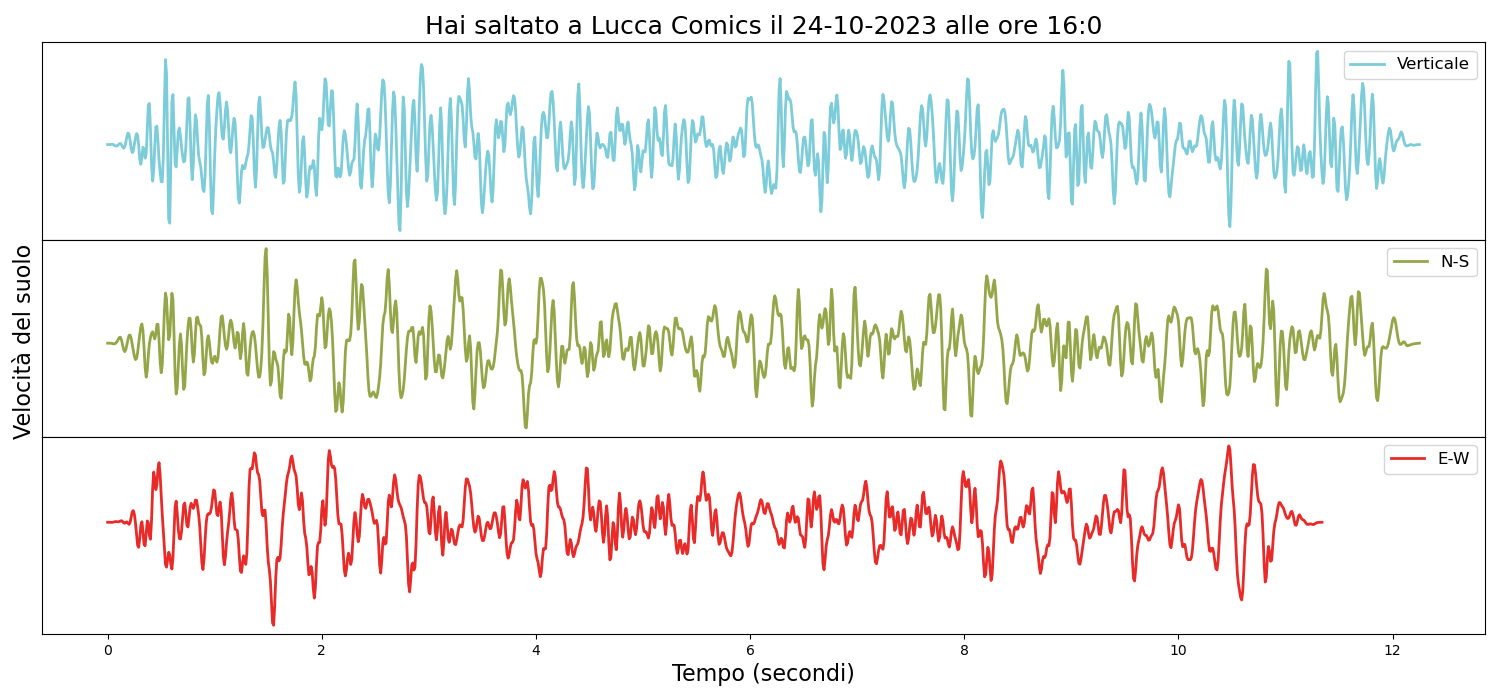
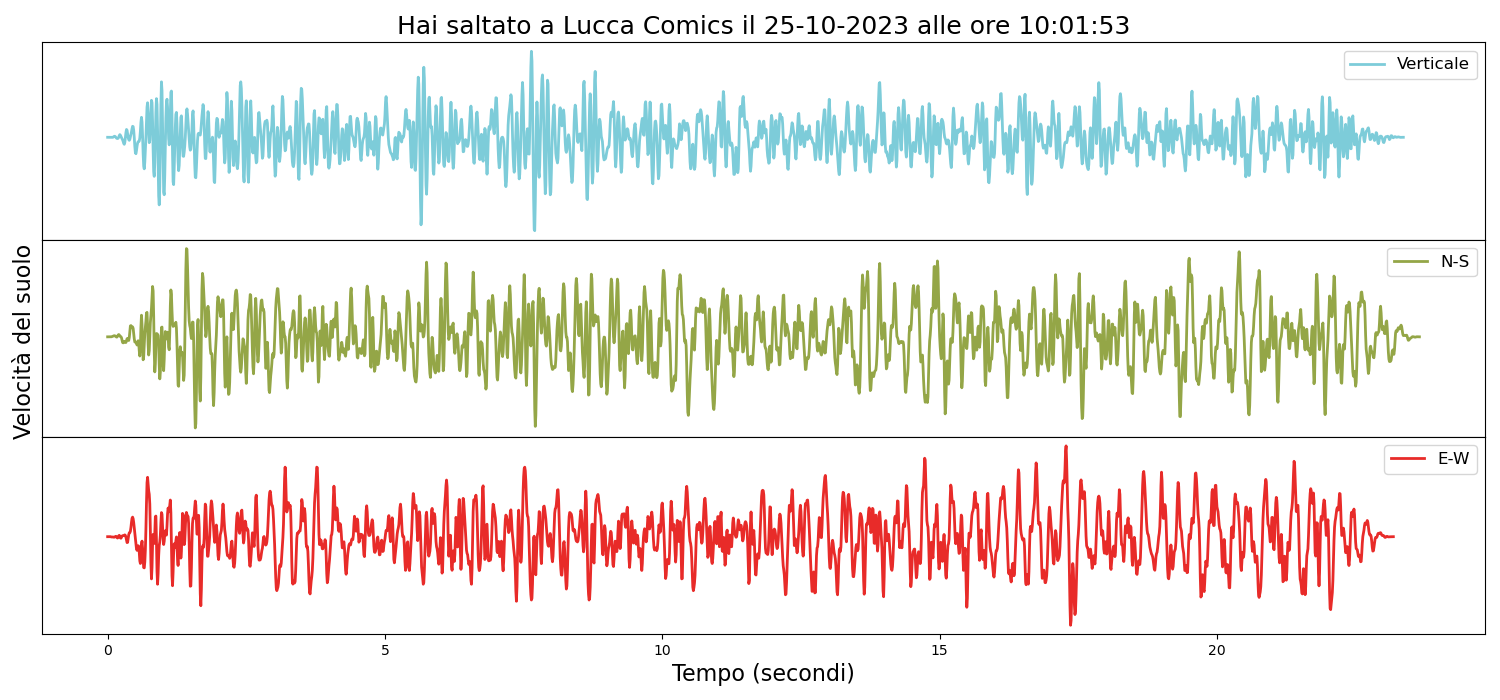
pre final

diff --git a/Shake.py b/Shake.py
@@ -5,26 +5,39 @@ import obspy
 import matplotlib.pyplot as plt
 import matplotlib.image as mpimg
 import time
+import requests
+import datetime
+import base64
+import qrcode
 from matplotlib.pyplot import savefig
 from obspy.clients.seedlink import Client
+from plot_w import mosaic
+# set Seedlink server
 client = Client('discovery.ingv.it',port=39962)
 client = Client('10.246.4.95')
-from plot_w import mosaic
+# Set API endpoint and headers
+url = "https://api.imgur.com/3/image"
+headers = {"Authorization": "Client-ID bd1de98fb9a0d89"}
+
 def plot_waveform(mseed):
     mseed.detrend("demean")
     mseed.filter("bandpass", freqmin=2,freqmax=20) 
     mseed.taper(0.05)
 
-    day=mseed[0].stats.starttime.day
-    month=mseed[0].stats.starttime.month
-    year=mseed[0].stats.starttime.year
+    utc=mseed[0].stats.starttime
+    dt = datetime.datetime.strptime(str(utc), "%Y-%m-%dT%H:%M:%S.%fZ")
+    print(dt.strftime("%H"),dt.strftime("%M"))
+
+    day=dt.strftime("%d")
+    month=dt.strftime("%m")
+    year=dt.strftime("%Y")
     data = str(day)+"-"+str(month)+"-"+str(year)
     
-    hour=mseed[0].stats.starttime.hour+1
-    minute=mseed[0].stats.starttime.minute
-    second=mseed[0].stats.starttime.second
-    ora=str(hour)+":"+str(minute)
-
+    hour=dt.strftime("%H")
+    minute=dt.strftime("%M")
+    second=dt.strftime("%S")
+    ora=str(hour)+":"+str(minute)+":"+str(second)
+    
     fig = plt.figure(figsize=(15, 7))
 
     axs = fig.subplots(3, 1, sharex=True, gridspec_kw={'hspace': 0})
@@ -84,13 +97,15 @@ def mosaic():
 # First the window layout in 2 columns
 
 file_list_column = [
-    [sg.Text(text = "INGV ShakeApp", size=20, justification='center',expand_x=True)],
+    #[sg.Text(text = "INGV ShakeApp", size=20, justification='center',expand_x=True)],
     [sg.Image('INGV.png',
    expand_x=True, expand_y=True )],
     [sg.Button('START'),
     sg.Button('STOP'),
-    sg.Button('SHOW')]
-]
+    sg.Button('SHOW'),
+    sg.Button("PRINT"),
+    sg.Button("QRCODE")]
+    ]
 
 # For now will only show the name of the file that was chosen
 image_viewer_column = [
@@ -138,7 +153,35 @@ while True:
         #     #file_list = os.listdir(folder)
         # except:
         #     #file_list = []
-    elif event == "SHOW":  # A file was chosen from the listbox
+    if event == "QRCODE":  # A file was chosen from the listbox
+        try:
+            with open("mosaic.png", "rb") as file:
+                data = file.read()
+                base64_data = base64.b64encode(data)
+                # Upload image to Imgur and get URL
+                response = requests.post(url, headers=headers, data={"image": base64_data})
+                url = response.json()["data"]["link"]
+                print(url)
+                qr = qrcode.QRCode(version=3, box_size=20, border=10, error_correction=qrcode.constants.ERROR_CORRECT_H)
+                # Define the data to be encoded in the QR code
+                data = url
+                # Add the data to the QR code object
+                qr.add_data(data)
+                # Make the QR code
+                qr.make(fit=True)
+                # Create an image from the QR code with a black fill color and white background
+                img = qr.make_image(fill_color="black", back_color="white")
+                # Save the QR code image
+                img.save("qr_code.png")
+            # start=starttime
+            # command = ""
+            # cmd = command
+            filename = 'qr_code.png'
+            #window["-TOUT-"].update(filename)
+            window["-IMAGE-"].update(filename=filename)
+        except:
+            pass
+    if event == "SHOW":  # A file was chosen from the listbox
         try:
             # start=starttime
             # command = ""
